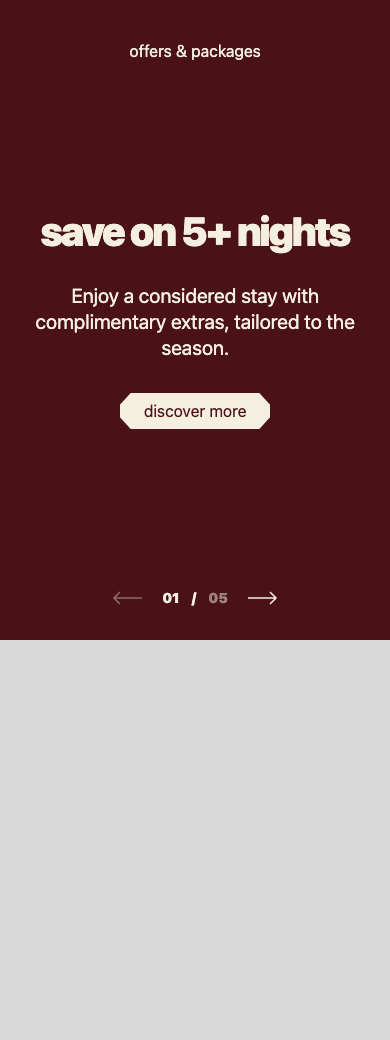
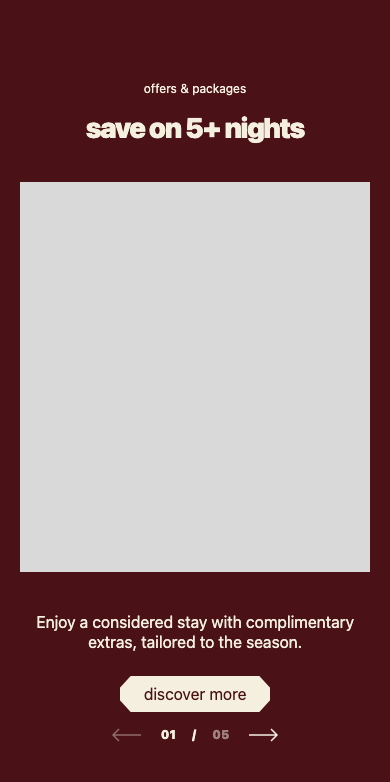
feat(mobile): M4 sliders and carousels match Figma at 767px and below
Offers slider image moves inside the card, carousel arrows hidden with
310px cards, Other dining options shown on mobile only. Webflow style
changes recorded in docs/figma/mobile/m4-webflow-changes.md; fixtures and
specs follow the new mobile layout.

diff --git a/tests/visual/fixtures/card-carousel-header-left.html b/tests/visual/fixtures/card-carousel-header-left.html
@@ -48,17 +48,19 @@
         .card-carousel-header-left_slider { width: 100%; }
       }
       @media (max-width: 767px) {
-        .section_card-carousel-header-left { padding: 5rem 0 5rem 1.25rem; }
+        .section_card-carousel-header-left { padding: 6rem 0 4rem 1.25rem; }
         .section_card-carousel-header-left.is-compact { padding-top: 4rem; padding-bottom: 4rem; }
+        .card-carousel-header-left_component { gap: 3.5rem; }
         .card-carousel-header-left_content { padding-right: 1.25rem; }
-        .card-carousel-header-left_header { gap: 1.25rem; }
-        .card-carousel-header-left_heading { font-size: 2rem; }
-        .card-carousel-header-left_text { font-size: 1.125rem; }
-        .card-carousel-header-left_slide, .card-carousel-header-left_slide.swiper-slide { width: 16rem; margin-right: 1rem; }
-        .card-carousel-header-left_figure { height: 16rem; }
-        .card-carousel-header-left_figure.is-tall { height: 22.5rem; }
-        .card-carousel-header-left_figure.is-mid { height: 20.75rem; }
-        .card-carousel-header-left_label { font-size: 1rem; }
+        .card-carousel-header-left_controls { display: none; }
+        .card-carousel-header-left_header { gap: 1.5rem; }
+        .card-carousel-header-left_heading { font-size: 1.75rem; }
+        .card-carousel-header-left_text { font-size: 1rem; line-height: 1.25; }
+        .card-carousel-header-left_slide, .card-carousel-header-left_slide.swiper-slide { width: 19.375rem; margin-right: 1.25rem; }
+        .card-carousel-header-left_figure { height: 19.1875rem; }
+        .card-carousel-header-left_figure.is-tall { height: 27.3125rem; }
+        .card-carousel-header-left_figure.is-mid { height: 25.1875rem; }
+        .card-carousel-header-left_label { font-size: 1.25rem; line-height: 1.35; margin-top: 1.25rem; }
       }
     </style>
   </head>

diff --git a/tests/visual/offers-slider-split.spec.ts b/tests/visual/offers-slider-split.spec.ts
@@ -100,13 +100,18 @@ test('offers slider: panel and figure each take half the width at 1440', async (
   expect(figure!.x).toBeGreaterThan(content!.x)
 })
 
-test('offers slider: item stacks with the figure below at 390', async ({ page }) => {
+test('offers slider: figure sits inside the card between title and text at 390', async ({ page }) => {
   await openFixture(page, 390, 844)
   const active = sliderA(page).locator('.swiper-slide-active')
-  const content = await active.locator('.offers-slider-split_content').boundingBox()
+  const heading = await active.locator('.offers-slider-split_heading').boundingBox()
   const figure = await active.locator('.offers-slider-split_figure').boundingBox()
-  expect(content && figure).toBeTruthy()
-  expect(figure!.y).toBeGreaterThanOrEqual(content!.y + content!.height - 1)
-  expect(Math.abs(figure!.width - 390)).toBeLessThan(2)
+  const text = await active.locator('.offers-slider-split_text').boundingBox()
+  expect(heading && figure && text).toBeTruthy()
+  expect(figure!.y).toBeGreaterThanOrEqual(heading!.y + heading!.height)
+  expect(text!.y).toBeGreaterThanOrEqual(figure!.y + figure!.height)
+  // Figma mobile: 350 x 390 inside 20px gutters.
+  expect(Math.round(figure!.x)).toBe(20)
+  expect(Math.round(figure!.width)).toBe(350)
+  expect(Math.round(figure!.height)).toBe(390)
   await sliderA(page).screenshot({ path: `${SCREENSHOT_DIRECTORY}/fixture-390.png` })
 })

diff --git a/tests/visual/card-carousel-header-left.spec.ts b/tests/visual/card-carousel-header-left.spec.ts
@@ -121,17 +121,14 @@ test('card carousel: a single card locks and hides the arrows', async ({ page })
   await expect(slider.locator('[data-card-carousel-next]')).toBeHidden()
 })
 
-test('card carousel: stacks below the header at 390', async ({ page }) => {
+test('card carousel: stacks below the header at 390, swipe only', async ({ page }) => {
   await openFixture(page, 390, 844)
   const slider = carousel(page, 0)
   const header = await slider.locator('.card-carousel-header-left_content').boundingBox()
   const firstCard = await slider.locator('.swiper-slide').first().boundingBox()
   expect(firstCard!.y).toBeGreaterThan(header!.y + header!.height - 1)
-  expect(Math.round(firstCard!.width)).toBe(256)
-  const start = await firstSlideX(page, 0)
-  await slider.locator('[data-card-carousel-next]').click()
-  // One card plus the 1rem gap: 256 + 16.
-  await expect.poll(async () => Math.round(start - (await firstSlideX(page, 0)))).toBe(272)
-  await page.waitForTimeout(800)
+  // Figma mobile: 310px cards, no arrows.
+  expect(Math.round(firstCard!.width)).toBe(310)
+  await expect(slider.locator('[data-card-carousel-controls]')).toBeHidden()
   await slider.screenshot({ path: `${SCREENSHOT_DIRECTORY}/fixture-390.png` })
 })

diff --git a/tests/visual/fixtures/offers-slider-split.html b/tests/visual/fixtures/offers-slider-split.html
@@ -51,6 +51,17 @@
         .offers-slider-split_figure { min-height: 25rem; }
         .offers-slider-split_overlay { bottom: auto; width: 100%; height: 40rem; }
       }
+      @media (max-width: 767px) {
+        .offers-slider-split_item { display: flex; flex-direction: column; padding: 7.125rem 1.25rem 4.375rem; }
+        .offers-slider-split_content, .offers-slider-split_header { display: contents; }
+        .offers-slider-split_heading { font-size: 1.75rem; order: 1; }
+        .offers-slider-split_figure { order: 2; min-height: 0; aspect-ratio: 350 / 390; margin: 2.5rem 0; }
+        .offers-slider-split_text { order: 3; font-size: 1rem; line-height: 1.25; }
+        .offers-slider-split_footer { order: 4; margin-top: 1.5rem; }
+        .offers-slider-split_overlay { height: auto; bottom: 0; padding: 5rem 1.25rem 2.5rem; }
+        .offers-slider-split_eyebrow { font-size: 0.75rem; line-height: 1.5; }
+        .offers-slider-split_counter { font-size: 0.75rem; line-height: 1.17; column-gap: 1rem; }
+      }
     </style>
   </head>
   <body>

diff --git a/docs/figma/mobile/m4-webflow-changes.md b/docs/figma/mobile/m4-webflow-changes.md
@@ -1,0 +1,60 @@
+# M4 sliders and carousels: Webflow style changes
+
+Applied and published to staging on 2026-11-03. Workstream M4 of `docs/plans/2026-11-03-001-feat-mobile-figma-parity-plan.md`. Every change is on the mobile landscape breakpoint (767px and below, cascades to portrait) of an existing class, so desktop and tablet do not change. No new classes, no DOM changes, no runtime code changes. Values come from `figma/mobile/nodes.json.gz` (press frame `25:3216`, dining-zuma frame `27:5985`).
+
+## section_offers-slider-split
+
+Image moves inside the maroon card between title and description by flattening the content and header wrappers into the item's flex column and ordering the children. The absolute overlay (eyebrow top, pager bottom) now spans the full slide.
+
+| Class | Property: value |
+| --- | --- |
+| `offers-slider-split_item` | display: flex; flex-direction: column; padding: 7.125rem 1.25rem 4.375rem |
+| `offers-slider-split_content` | display: contents |
+| `offers-slider-split_header` | display: contents |
+| `offers-slider-split_heading` (base, plus the Blue and Tan variant overrides) | font-size: 1.75rem; order: 1 |
+| `offers-slider-split_figure` | order: 2; min-height: 0; aspect-ratio: 350 / 390; margin: 2.5rem 0 |
+| `offers-slider-split_text` | order: 3; font-size: 1rem; line-height: 1.25 |
+| `offers-slider-split_footer` | order: 4; margin-top: 1.5rem |
+| `offers-slider-split_overlay` | height: auto; bottom: 0; padding: 5rem 1.25rem 2.5rem |
+| `offers-slider-split_eyebrow` | font-size: .75rem; line-height: 1.5 |
+| `offers-slider-split_counter` | font-size: .75rem; line-height: 1.17; column-gap: 1rem |
+
+## section_card-carousel-header-left
+
+| Class | Property: value |
+| --- | --- |
+| `section_card-carousel-header-left` (Base only) | padding-top: 6rem; padding-bottom: 4rem |
+| `card-carousel-header-left_component` | row-gap: 3.5rem |
+| `card-carousel-header-left_controls` | display: none (swipe only, as in Figma) |
+| `card-carousel-header-left_header` | row-gap: 1.5rem |
+| `card-carousel-header-left_heading` | font-size: 1.75rem |
+| `card-carousel-header-left_text` | font-size: 1rem; line-height: 1.25 |
+| `card-carousel-header-left_slide` and `.swiper-slide` combo | width: 19.375rem; margin-right: 1.25rem |
+| `card-carousel-header-left_figure` | height: 19.1875rem (307) |
+| `card-carousel-header-left_figure.is-tall` | height: 27.3125rem (437) |
+| `card-carousel-header-left_figure.is-mid` | height: 25.1875rem (403) |
+| `card-carousel-header-left_label` | font-size: 1.25rem; line-height: 1.35; margin-top: 1.25rem |
+
+## section_card-stagger-header-left (Dinings Template "Other dining options")
+
+The section instance `86d57348-f224-7d1f-8ca3-1011769f1eb2` carries `hide` at every size. Figma mobile shows it as a swipe row of 310 x 437 cards with no stagger.
+
+| Class | Property: value |
+| --- | --- |
+| `card-stagger-header-left_component` | row-gap: 3.5rem |
+| `card-stagger-header-left_header` | row-gap: 1.5rem |
+| `card-stagger-header-left_text` | font-size: 1rem; line-height: 1.25 |
+| `card-stagger-header-left_list` | column-gap: 1.25rem |
+| `card-stagger-header-left_card` | flex-basis: 19.375rem |
+| `card-stagger-header-left_card:nth-child(odd)` | margin-top: 0 |
+| `card-stagger-header-left_figure` | aspect-ratio: 310 / 437 |
+| `card-stagger-header-left_link` | row-gap: 1.25rem |
+| `card-stagger-header-left_label` | font-size: 1.25rem; line-height: 1.35 |
+
+Visibility: `hide` removed from the section. To keep desktop unchanged, `section_card-stagger-header-left` has display: none on desktop and display: block at 767px and below.
+
+## Known remaining differences
+
+- The stagger heading uses the global `heading-style-h2` (30px on mobile, Figma 28px), so "Other dining options" wraps to two lines. Not changed here: the class is shared site-wide.
+- Offers slides with a single offer (rooms) hide the pager, which leaves about 50px of extra bottom space.
+- Fade slides share the tallest slide's height, so a slide with a one-line title has a little extra space above the pager.
